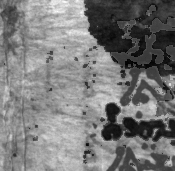
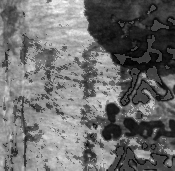
update conv_incep

diff --git a/autoencoder/conv_nd_classify_test_roi.py b/autoencoder/conv_nd_classify_test_roi.py
@@ -20,7 +20,8 @@ from utils import reconstruct_image, get_sample_image
 
 
 data_class = 'allClass'
-data_id = '102v_107r'
+model_data_id = '102v_107r'
+data_id = '214v_221r'
 data_type = 'cropped_roi'
 conv_nd = 2
 
@@ -47,7 +48,7 @@ if conv_nd == 2:
     conv_model = models.conv2d_net(channel_len, img_width, img_height, 3)
 elif conv_nd == 3:
     conv_model = models.conv3d_net(channel_len, img_width, img_height, 3)
-conv_model.load_state_dict(torch.load(f'{model_path}/conv{conv_nd}d_on_{data_class}.pth', map_location='cpu'))
+conv_model.load_state_dict(torch.load(f'{model_path}/conv{conv_nd}d_on_{data_class}_{model_data_id}.pth', map_location='cpu'))
 conv_model.eval()
 
 

diff --git a/autoencoder/models.py b/autoencoder/models.py
@@ -391,10 +391,10 @@ class conv_inception(nn.Module):
         self.inception2 = nn.Conv2d(input_dim, incep_output_dim, kernel_size=3)
         self.conv_cat = nn.Sequential(
             nn.ReLU(),
-            nn.LocalResponseNorm(5, k=2),
+            nn.LocalResponseNorm(3, k=2),
             nn.Conv2d(incep_output_dim*2, 128, kernel_size=1),
             nn.ReLU(),
-            nn.LocalResponseNorm(5, k=2)
+            nn.LocalResponseNorm(3, k=2)
         )
         self.residual = nn.Sequential(
             nn.Conv2d(128, 128, kernel_size=1),

diff --git a/autoencoder/conv_nd_classify.py b/autoencoder/conv_nd_classify.py
@@ -22,7 +22,7 @@ from utils import reconstruct_image
 data_class = 'allClass'
 data_id = '102v_107r'
 data_type = 'cropped_roi'
-conv_nd = 2
+conv_nd = 3
 
 
 # file paths
@@ -97,7 +97,7 @@ for epoch in range(num_epochs):
 
 
 # save model
-torch.save(conv_model.state_dict(), f'{model_path}/conv{conv_nd}d_on_{data_class}.pth')
+torch.save(conv_model.state_dict(), f'{model_path}/conv{conv_nd}d_on_{data_class}_{data_id}.pth')
 
 
 print('Reconstruct..')
